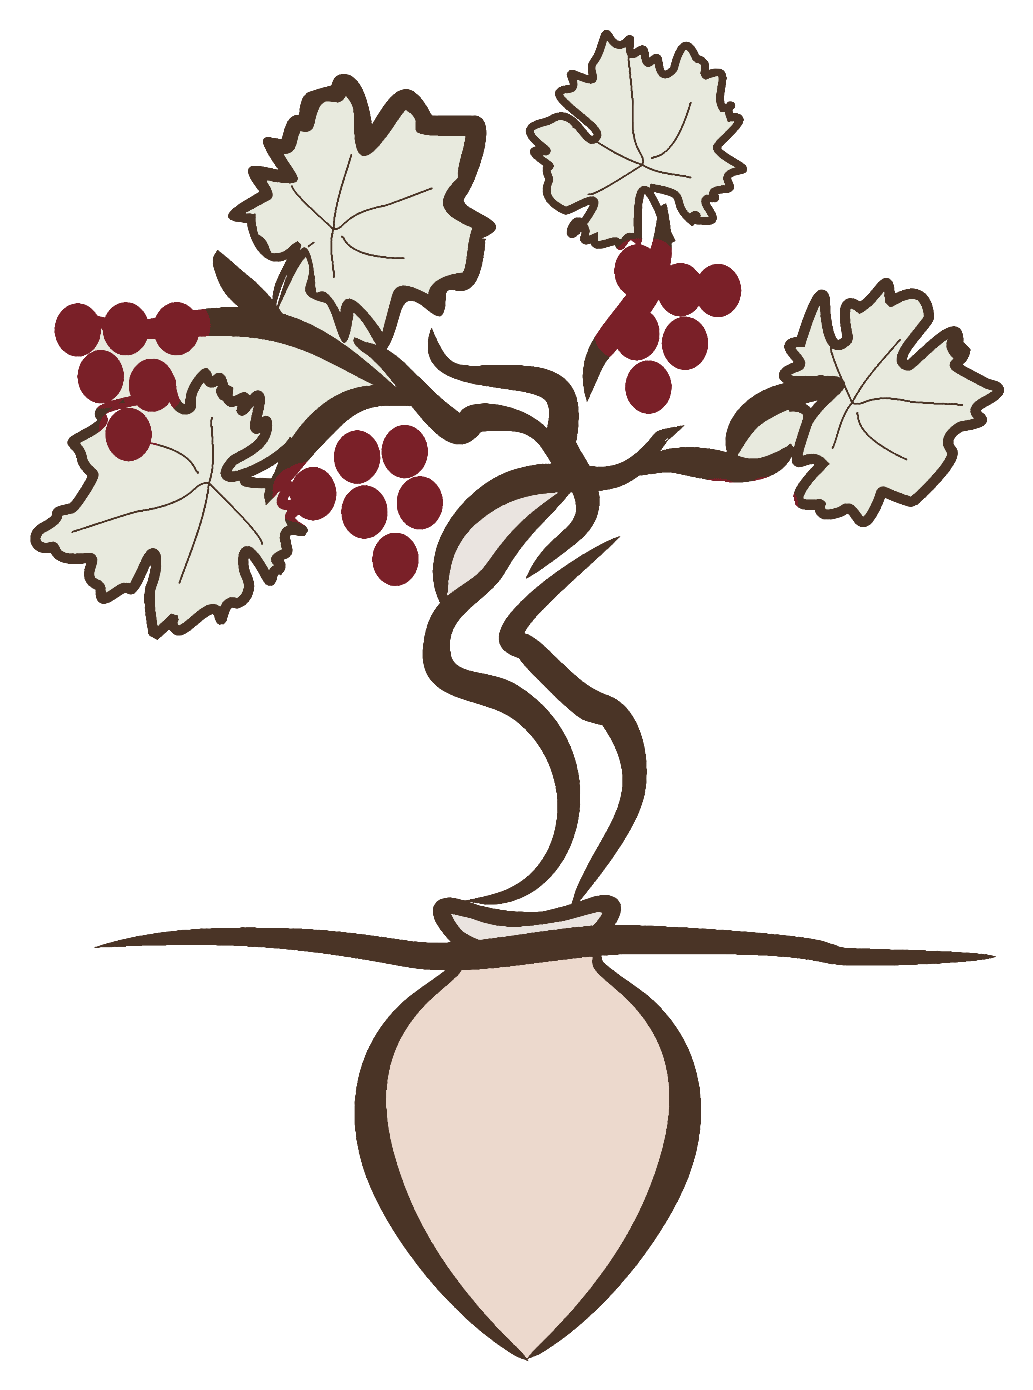
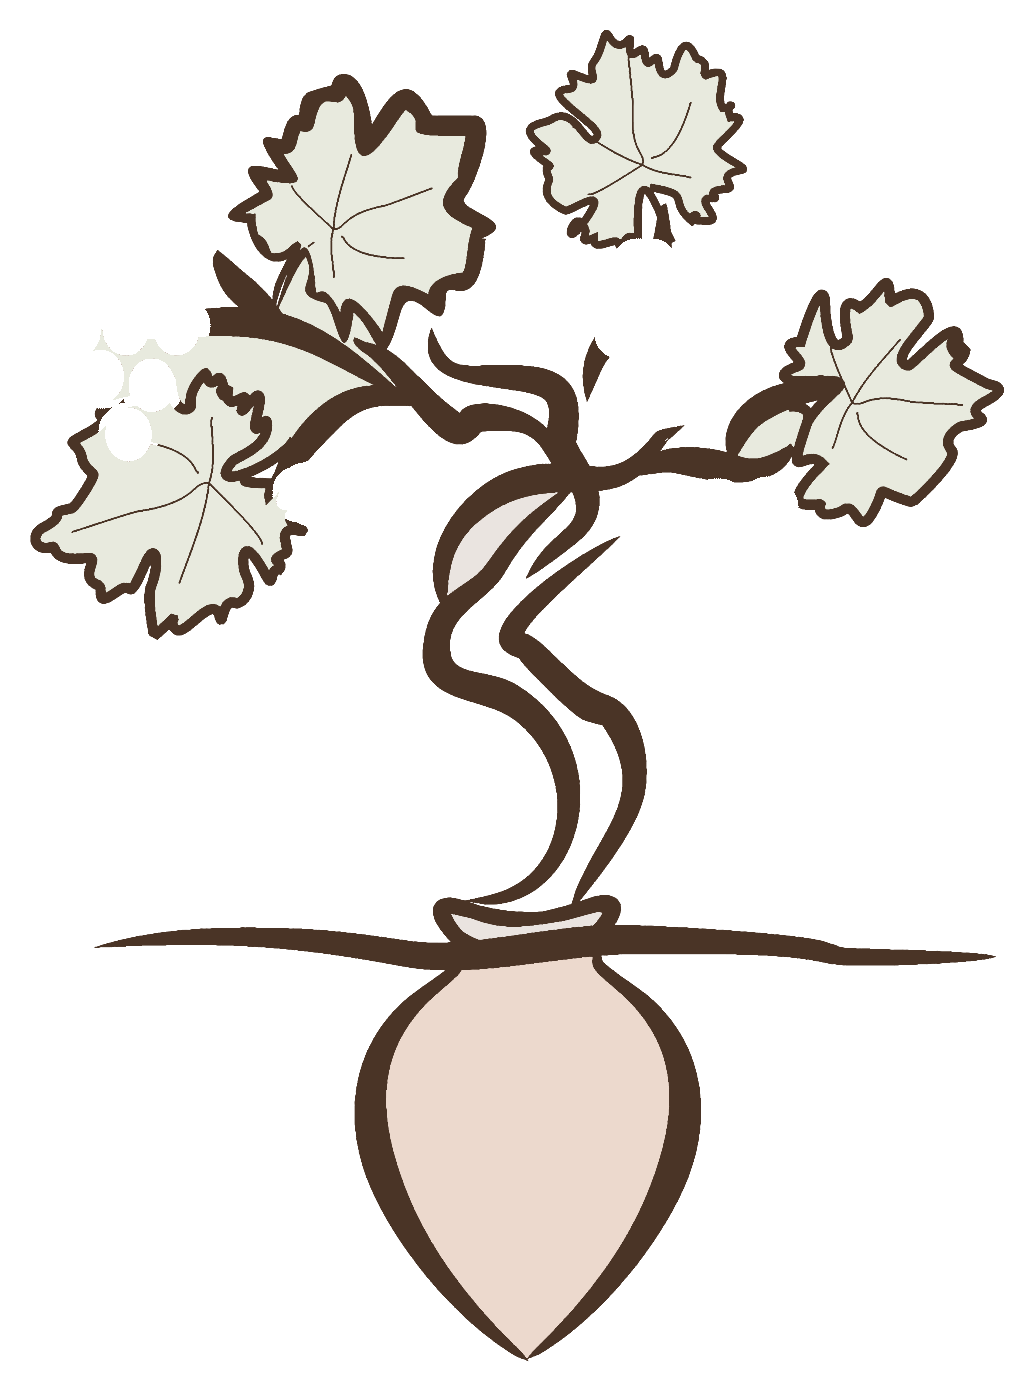
მთავარი: ვაზის მტევნებზე „გალობა“, „სიმღერა“, „ლოცვანი“; „გაკვეთილი“ ცოტა პრიალებს
მომხმარებელი: „დანარჩენ მტევნებზე იგივენაირად გადაანაწილე გალობა, სიმღერა, ლოცვანი და განყოფილებებიდან
ჩახსენი. ასევე გაკვეთილის მტევანი ცოტა პრიალებდეს“.

- სამი განყოფილება ვაზის მტევნებზეა, ასო-ასო; „განყოფილებების“ სიიდან ამოვიდა.
- სურათის საკუთარი მტევნები სურათიდან მოიხსნა.
- „გაკვეთილის“ მტევანს მეტი ბზინვა აქვს; შეხებით ისევ წერილები იხსნება.

Claude-Session: https://claude.ai/code/session_01QAbRym2hF6yzrywzecpmwW

Changed region(s): [[0.2478, 0.3094, 0.4337, 0.4331], [0.5576, 0.1547, 0.7125, 0.3094], [0.031, 0.2165, 0.2168, 0.3403]]

diff --git a/src/pages/v2/home/LettersBunch.tsx b/src/pages/v2/home/LettersBunch.tsx
@@ -2,66 +2,89 @@ import React from 'react';
 import { Counter, FOCUS, Press, cx } from '../../../components/ui2';
 import { COLOR } from '../../../design/tokens';
 
-// „წერილები“ as a grape bunch on the home vine (2026-11-21, the user: „სიტყვა წერილები მარცვლებში ჩაწერე ასო ასო და გააცოცხლე
-// მტევანი … რამდენი მარცვალიც იქნება საჭირო იმდენი დაამატე“; picks: only „წერილები“, it sways and the letters shine in turn).
-// It hangs where the picture's own bunch hung (that bunch was taken out of public/home/vine.png): eight grapes 3 · 2 · 2 · 1,
-// one letter each, read row by row. The grapes are painted as real ones (the user, the same night: „ნამდვილი მარცვლების ფერი და
-// ეფექტი მიეცი, როგორც ყურძენია“): a dark ripe skin, soft light, a dusty bloom — not red glass balls. A tap = the bottom menu's old „წერილები“ (a student with one teacher — the teacher's chat,
-// everyone else the list). New letters: the bunch hops now and then and a red number sits on it.
-
-// The word on it is „გაკვეთილი“ since the same night (the user: „დააწერე გაკვეთილი, მარა გახსნით რაც იხსნება ის დატოვე“): nine grapes
-// 3 · 3 · 2 · 1; the tap still opens the letters. The grapes are painted after the photo he showed — a ripe amber-green bunch.
-const WORD = ['გ', 'ა', 'კ', 'ვ', 'ე', 'თ', 'ი', 'ლ', 'ი'];
-
-/** the grapes' centres in the drawing's units (viewBox 100 × 124; the stem's top at 0) */
-const GRAPES: [number, number][] = [
-  [18, 30], [50, 28], [82, 30],
-  [19, 57], [50, 56], [81, 57],
-  [35, 83], [65, 83],
-  [50, 108],
-];
+// A word written into a grape bunch on the home vine, one letter a grape (2026-11-21, the user's idea: „სიტყვა მარცვლებში ჩაწერე
+// ასო ასო და გააცოცხლე მტევანი … რამდენი მარცვალიც იქნება საჭირო იმდენი დაამატე“ — he insists on the letters in the grapes; a name
+// tag under a plain bunch was refused). The grapes are painted after the photo he showed: a ripe amber-green bunch, soft light,
+// dark letters. The same night he asked for the vine's other bunches the same way — „გალობა“, „სიმღერა“, „ლოცვანი“ — and for the
+// first one („გაკვეთილი“, which still opens the letters) to shine a little (`shiny`). All the picture's own bunches were taken
+// out of public/home/vine.png. A bunch sways, its grapes light up in turn; a count and a hop while letters wait.
 
 const R = 16.5;
 
-export const LettersBunch: React.FC<{ unread: number; onOpen: () => void; className?: string; style?: React.CSSProperties }> = ({
-  unread, onOpen, className, style,
-}) => (
-  <div className={cx('vine-sway sg-keep-text absolute -translate-x-1/2', className)} style={style}>
-    <Press
-      onClick={onOpen}
-      aria-label={unread ? `წერილები, ${unread} წაუკითხავი` : 'წერილები'}
-      className={cx('relative block w-full cursor-pointer rounded-full transition active:scale-95', unread > 0 && 'sg-bunch-hop', FOCUS)}
-    >
-      <svg viewBox="0 0 100 124" className="block w-full overflow-visible" aria-hidden="true">
-        <defs>
-          {/* a real grape's skin (the colours are in index.css): light falls from the upper left, the rim goes dark */}
-          <radialGradient id="sg-grape" cx="36%" cy="30%" r="78%">
-            <stop offset="0%" className="sg-grape-lit" />
-            <stop offset="42%" className="sg-grape-skin" />
-            <stop offset="100%" className="sg-grape-rim" />
-          </radialGradient>
-          {/* the bloom: the pale dusty film on a ripe grape, strongest below */}
-          <linearGradient id="sg-grape-bloom" x1="0" y1="0" x2="0" y2="1">
-            <stop offset="35%" className="sg-grape-dust" stopOpacity={0} />
-            <stop offset="100%" className="sg-grape-dust" stopOpacity={0.3} />
-          </linearGradient>
-        </defs>
-        {/* the stem from the branch, and a little curl of tendril */}
-        <path d="M50 -6 C50 4 49 10 50 16" fill="none" stroke={COLOR.mut} strokeWidth={5} strokeLinecap="round" />
-        <path d="M51 4 C60 0 66 6 61 11 C58 14 54 11 57 8" fill="none" stroke={COLOR.mut} strokeWidth={1.6} strokeLinecap="round" />
-        {GRAPES.map(([x, y], i) => (
-          <g key={i} className="sg-grape" style={{ animationDelay: `${i * 0.42}s` }}>
-            <circle cx={x} cy={y} r={R} fill="url(#sg-grape)" className="sg-grape-edge" strokeWidth={0.8} />
-            <circle cx={x} cy={y} r={R} fill="url(#sg-grape-bloom)" />
-            <ellipse cx={x - 6.5} cy={y - 8} rx={3.4} ry={2} fill={COLOR.surf} opacity={0.55} transform={`rotate(-30 ${x - 6.5} ${y - 8})`} />
-            <text
-              x={x} y={y + 0.5} textAnchor="middle" dominantBaseline="central"
-              className="sg-grape-letter" fontSize={18} fontWeight={700}
-            >{WORD[i]}</text>
-          </g>
-        ))}
-      </svg>
-      {unread > 0 && <Counter n={unread} className="absolute top-[8%] -right-1.5" />}
-    </Press>
-  </div>
-);
+/** how many grapes a row: 3 · 2 · 1 for six letters, 3 · 3 · 1 for seven, 3 · 3 · 2 · 1 for nine */
+const rowsOf = (n: number): number[] => {
+  const rows: number[] = [];
+  let left = n;
+  while (left > 3) {
+    // the last rows taper: … 2 · 1 when three are left over after the threes, otherwise the rest
+    if (left === 6 || left === 5) { rows.push(3); left -= 3; continue; }
+    if (left === 4) { rows.push(3); left -= 3; continue; }
+    rows.push(3); left -= 3;
+  }
+  if (left === 3 && rows.length > 0) rows.push(2, 1);
+  else if (left > 0) rows.push(left);
+  return rows;
+};
+
+const XS: Record<number, number[]> = { 1: [50], 2: [35, 65], 3: [18, 50, 82] };
+
+/** the grapes' centres in the drawing's units (100 wide; the stem's top at 0) */
+const grapesOf = (n: number): [number, number][] =>
+  rowsOf(n).flatMap((count, r) => XS[count].map((x, i): [number, number] => [x, 30 + r * 26.5 - (count === 3 && i === 1 ? 2 : 0)]));
+
+export const LettersBunch: React.FC<{
+  word: string;
+  /** what a screen reader says (the first bunch opens the letters, whatever is written on it) */
+  label?: string;
+  /** a little more gloss on the grapes */
+  shiny?: boolean;
+  unread?: number;
+  onOpen: () => void;
+  className?: string;
+  style?: React.CSSProperties;
+}> = ({ word, label = word, shiny, unread = 0, onOpen, className, style }) => {
+  const letters = [...word];
+  const grapes = grapesOf(letters.length);
+  const h = grapes[grapes.length - 1][1] + R + 1;
+  return (
+    <div className={cx('vine-sway sg-keep-text absolute -translate-x-1/2', className)} style={style}>
+      <Press
+        onClick={onOpen}
+        aria-label={unread ? `${label}, ${unread} წაუკითხავი` : label}
+        className={cx('relative block w-full cursor-pointer rounded-full transition active:scale-95', unread > 0 && 'sg-bunch-hop', FOCUS)}
+      >
+        <svg viewBox={`0 0 100 ${h}`} className="block w-full overflow-visible" aria-hidden="true">
+          <defs>
+            {/* a real grape's skin (the colours are in index.css): light falls from the upper left, the rim goes darker */}
+            <radialGradient id="sg-grape" cx="36%" cy="30%" r="78%">
+              <stop offset="0%" className="sg-grape-lit" />
+              <stop offset="42%" className="sg-grape-skin" />
+              <stop offset="100%" className="sg-grape-rim" />
+            </radialGradient>
+            {/* the bloom: the dusty blush on a ripe grape, strongest below */}
+            <linearGradient id="sg-grape-bloom" x1="0" y1="0" x2="0" y2="1">
+              <stop offset="35%" className="sg-grape-dust" stopOpacity={0} />
+              <stop offset="100%" className="sg-grape-dust" stopOpacity={0.3} />
+            </linearGradient>
+          </defs>
+          {/* the stem from the branch, and a little curl of tendril */}
+          <path d="M50 -6 C50 4 49 10 50 16" fill="none" stroke={COLOR.mut} strokeWidth={5} strokeLinecap="round" />
+          <path d="M51 4 C60 0 66 6 61 11 C58 14 54 11 57 8" fill="none" stroke={COLOR.mut} strokeWidth={1.6} strokeLinecap="round" />
+          {grapes.map(([x, y], i) => (
+            <g key={i} className="sg-grape" style={{ animationDelay: `${i * 0.42}s` }}>
+              <circle cx={x} cy={y} r={R} fill="url(#sg-grape)" className="sg-grape-edge" strokeWidth={0.8} />
+              <circle cx={x} cy={y} r={R} fill="url(#sg-grape-bloom)" />
+              <ellipse cx={x - 6.5} cy={y - 8} rx={shiny ? 4.6 : 3.4} ry={shiny ? 2.7 : 2} fill={COLOR.surf} opacity={shiny ? 0.9 : 0.55} transform={`rotate(-30 ${x - 6.5} ${y - 8})`} />
+              {shiny && <circle cx={x + 7.5} cy={y + 8.5} r={1.5} fill={COLOR.surf} opacity={0.6} />}
+              <text
+                x={x} y={y + 0.5} textAnchor="middle" dominantBaseline="central"
+                className="sg-grape-letter" fontSize={18} fontWeight={700}
+              >{letters[i]}</text>
+            </g>
+          ))}
+        </svg>
+        {unread > 0 && <Counter n={unread} className="absolute top-[8%] -right-1.5" />}
+      </Press>
+    </div>
+  );
+};

diff --git a/src/components/shell/SectionsMenu.tsx b/src/components/shell/SectionsMenu.tsx
@@ -36,18 +36,14 @@ const ITEMS: Item[] = [
 /** „ხალხური“'s first tab, as KhalkhuriV2 reads it for the visit */
 const folkTab = (tab: 'songs' | 'poets') => { try { sessionStorage.setItem('sg-khalkhuri-tab', tab); } catch { /* storage off */ } };
 
-export const SectionsMenu: React.FC<{ onSoon: (text: string) => void }> = ({ onSoon }) => {
-  const [open, setOpen] = useState(false);
+/** the sections written into the home vine's grape bunches (pages/v2/home) — the menu leaves them out (2026-11-21, the user:
+    „დანარჩენ მტევნებზე გადაანაწილე გალობა, სიმღერა, ლოცვანი და განყოფილებებიდან ჩახსენი“) */
+export const VINE_SECTIONS = ['galoba', 'simghera', 'lotsvani'];
+
+/** the sections with the admin's switches applied, and what a tap on one does — the menu's rows and the vine's bunches */
+export const useSections = (onSoon: (text: string) => void, close: () => void = () => {}) => {
   const access = useAccess();
   const { navigateTo, openMapItem } = useNavigation();
-  useBackToClose(open, () => setOpen(false));
-
-  useEffect(() => {
-    if (!open) return;
-    const onKey = (e: KeyboardEvent) => { if (e.key === 'Escape') setOpen(false); };
-    window.addEventListener('keydown', onKey);
-    return () => window.removeEventListener('keydown', onKey);
-  }, [open]);
 
   const go: Record<string, () => void> = {
     galoba: () => navigateTo('galoba'),
@@ -68,13 +64,30 @@ export const SectionsMenu: React.FC<{ onSoon: (text: string) => void }> = ({ onS
 
   const pick = (it: Item, state: string) => {
     triggerHaptic(10);
-    if (state === 'soon') { setOpen(false); onSoon(`„${it.label}“ ჯერ მზადდება — მალე დაემატება`); return; }
+    if (state === 'soon') { close(); onSoon(`„${it.label}“ ჯერ მზადდება — მალე დაემატება`); return; }
     // a closed page that has no page of its own to say so asks at once; the others open their own closed page
-    if (state === 'locked' && it.id === 'lotsvani') { setOpen(false); askSignIn(it.label); return; }
+    if (state === 'locked' && it.id === 'lotsvani') { close(); askSignIn(it.label); return; }
     // the menu's own history step is left behind and skipped on the way back (utils/backToClose)
-    setOpen(false);
+    close();
     go[it.id]();
   };
+  return { rows, pick };
+};
+
+export const SectionsMenu: React.FC<{ onSoon: (text: string) => void }> = ({ onSoon }) => {
+  const [open, setOpen] = useState(false);
+  useBackToClose(open, () => setOpen(false));
+
+  useEffect(() => {
+    if (!open) return;
+    const onKey = (e: KeyboardEvent) => { if (e.key === 'Escape') setOpen(false); };
+    window.addEventListener('keydown', onKey);
+    return () => window.removeEventListener('keydown', onKey);
+  }, [open]);
+
+  const all = useSections(onSoon, () => setOpen(false));
+  const pick = all.pick;
+  const rows = all.rows.filter(r => !VINE_SECTIONS.includes(r.it.id));
 
   return (
     <>

diff --git a/src/pages/v2/home/HomeV2View.tsx b/src/pages/v2/home/HomeV2View.tsx
@@ -30,6 +30,15 @@ export const SPOTS: Record<SpotId, Spot> = {
   tamashebi: { label: 'სახალისო', x: 81, y: 51, tone: 'bg-sea', Icon: Dice4 },
 };
 
+export type BunchId = 'galoba' | 'simghera' | 'lotsvani';
+
+/** where the picture's own bunches hung: the stem's top, in % of the picture */
+const BUNCH_SPOT: Record<BunchId, React.CSSProperties> = {
+  galoba: { left: '64.6%', top: '15.4%' },
+  simghera: { left: '14.5%', top: '19.5%' },
+  lotsvani: { left: '37.5%', top: '30.2%' },
+};
+
 /** the boards' vine box: 374px wide (the 358px column + 8px each side) */
 const BOARD_W = 374;
 
@@ -70,6 +79,8 @@ export interface HomeV2ViewProps {
   onNext: () => void;
   /** „წერილები“ as the grape bunch right of the trunk (2026-11-21); none — the bunch is not drawn */
   letters?: { unread: number; onOpen: () => void };
+  /** the sections written into the vine's other bunches (2026-11-21); a hidden section is left out */
+  bunches?: { id: BunchId; word: string; onOpen: () => void }[];
   /** under the vine: the birthdays' line and the member's own buttons */
   children?: React.ReactNode;
 }
@@ -99,7 +110,7 @@ const chipLook = cx(
   'cursor-pointer transition active:scale-95', FOCUS,
 );
 
-export const HomeV2View: React.FC<HomeV2ViewProps> = ({ saying, labels, abituri, onLabel, onAbituri, next, onNext, letters, children }) => {
+export const HomeV2View: React.FC<HomeV2ViewProps> = ({ saying, labels, abituri, onLabel, onAbituri, next, onNext, letters, bunches, children }) => {
   const { box, k } = useVineScale();
   return (
     // -mt-0.5: the app frame gives the home 4px under its bar, the boards 2px
@@ -166,8 +177,12 @@ export const HomeV2View: React.FC<HomeV2ViewProps> = ({ saying, labels, abituri,
             );
           })}
 
-          {/* „წერილები“: the bunch the picture's own grapes hung in (x 632–792, y 483–635 of 1033 × 1390) */}
-          {letters && <LettersBunch unread={letters.unread} onOpen={letters.onOpen} className="z-1 w-[23%]" style={{ left: '68.9%', top: '32.4%' }} />}
+          {/* words in the grapes, where the picture's own bunches hung: the first one („გაკვეთილი“) opens the letters, the others
+              their sections; they sway out of step */}
+          {letters && <LettersBunch word="გაკვეთილი" label="წერილები" shiny unread={letters.unread} onOpen={letters.onOpen} className="z-1 w-[23%]" style={{ left: '68.9%', top: '32.4%' }} />}
+          {bunches?.map((b, i) => (
+            <LettersBunch key={b.id} word={b.word} onOpen={b.onOpen} className="z-1 w-[23%]" style={{ ...BUNCH_SPOT[b.id], animationDelay: `${-(i + 1) * 0.9}s` }} />
+          ))}
 
           {/* „გააგრძელე“ on the qvevri: one thing, where I stopped */}
           {next && (

diff --git a/src/pages/v2/home/HomeV2.tsx b/src/pages/v2/home/HomeV2.tsx
@@ -1,9 +1,11 @@
-import React, { Suspense } from 'react';
+import React, { Suspense, useState } from 'react';
 import { useAccess } from '../../../hooks/useAccess';
 import { BirthdaysSoon } from '../../../components/home/BirthdaysSoon';
 import { ShortcutShelf } from '../../../components/home/ShortcutShelf';
 import { SAYINGS_ABOVE } from '../../../data/sayings';
-import { HomeV2View } from './HomeV2View';
+import { HomeV2View, type BunchId } from './HomeV2View';
+import { VINE_SECTIONS, useSections } from '../../../components/shell/SectionsMenu';
+import { Toast } from '../../../components/ui/Toast';
 import { useNextStep } from './useNextStep';
 import { useSayingSlot } from './useSayingSlot';
 import { HomeClasses, useHomeAiShown } from './HomeClasses';
@@ -27,6 +29,11 @@ export const HomeV2: React.FC = () => {
   // „წერილები“ = the vine's grape bunch (the phone's bottom menu is gone since 2026-11-21): the same tap as the menu's was
   const places = useNavPlaces();
   const lettersItem = places.shown.find(it => it.id === 'messages');
+  // „გალობა“, „სიმღერა“, „ლოცვანი“ = the vine's other bunches (they left the home bar's menu); each obeys the admin's switches
+  const [soon, setSoon] = useState<string | null>(null);
+  const sections = useSections(setSoon);
+  const bunches = sections.rows.filter(r => VINE_SECTIONS.includes(r.it.id))
+    .map(r => ({ id: r.it.id as BunchId, word: r.it.label, onOpen: () => sections.pick(r.it, r.state) }));
 
   return (
     <>
@@ -38,6 +45,7 @@ export const HomeV2: React.FC = () => {
         onAbituri={() => {}}
         next={step}
         onNext={next.go}
+        bunches={bunches}
         letters={lettersItem ? { unread: places.unread, onOpen: () => places.go(lettersItem) } : undefined}
       >
         {/* birthdays: within five days for teachers and admins, today's for members */}
@@ -47,6 +55,7 @@ export const HomeV2: React.FC = () => {
         {/* the kanon of a psalter-group member, „ჩვევები“ (a window) and the member's own buttons — no heading */}
         <ShortcutShelf habits />
       </HomeV2View>
+      <Toast message={soon || ''} type="info" isVisible={!!soon} onClose={() => setSoon(null)} />
       {next.learnPiece && (
         <Suspense fallback={null}>
           <LearnOpen key={next.learnPiece} piece={next.learnPiece} onDone={next.learnDone} />

diff --git a/src/data/appNews.ts b/src/data/appNews.ts
@@ -12,6 +12,12 @@ export interface AppNews {
 
 export const APP_NEWS: AppNews[] = [
   {
+    id: 'vine-bunches-2026-11-21',
+    date: '2026-11-21',
+    title: 'ვაზის მტევნებზე — გალობა, სიმღერა, ლოცვანი',
+    text: 'მთავარ გვერდზე ვაზის მტევნებს ასო-ასო აწერია „გალობა“, „სიმღერა“ და „ლოცვანი“ — შეეხე და გაიხსნება. ეს სამი „განყოფილებებში“ აღარ არის. მტევანი „გაკვეთილი“ წერილებს ხსნის.',
+  },
+  {
     id: 'letters-bunch-2026-11-21',
     date: '2026-11-21',
     title: 'წერილები — ვაზის მტევანზე',

diff --git a/CLAUDE.md b/CLAUDE.md
@@ -2210,6 +2210,12 @@ listens (Gemini through Firebase AI Logic). 8 calls on Android (wake lock, push,
 Pending small tasks the user mentioned: remove the old Drive `ნოტები` sheets from `chantMediaRegistry.ts`
 (only when the user asks); bind mp3s for the folk songs marked `pendingWma` once uploaded to Drive.
 
+- **Words in the vine's grapes (2026-11-21, late)**: the user wants every word written INTO the grapes, letter by letter (a name tag
+  under a plain bunch was refused: „წერილები უნდა ეწეროს მარცვლებში!“). `v2/home/LettersBunch.tsx` draws any word (3·2·1, 3·3·1,
+  3·3·2·1) with grapes painted after his photo — ripe amber, dark letters (colours in `index.css`, `sg-grape-*`). Four bunches, where
+  the picture's own hung (all taken out of `public/home/vine.png`): „გაკვეთილი“ (his word; it still opens the letters, and is
+  `shiny`), „გალობა“, „სიმღერა“, „ლოცვანი“ (`BUNCH_SPOT` in HomeV2View). Those three left the home bar's menu (`VINE_SECTIONS`);
+  `useSections` (SectionsMenu) gives both the menu's rows and the bunches' taps, with the admin's switches.
 - **No bottom menu on phones, „წერილები“ as a grape bunch, the library's themes on its front, the AI teacher renamed (2026-11-21**,
   the user: „პროფილის ღილაკი ზევით აიტანე … ლუპა დაპატარავე … სიტყვა წერილები მარცვლებში ჩაწერე ასო ასო და გააცოცხლე მტევანი“; „საპატრიარქო
   ბიბლიოთეკა წაშალე … კატეგორიები გარე უჯრაზევე“; „სადაც AI მასწავლებელი აწერია ყველგან დააწერე ავტომატური სასწავლო პროგრამა“): phones
